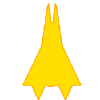
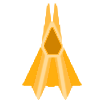
added Screen class to gui(for displayig images, maybe rename that one to Image or GUIImage???)

Changed region(s): [[0.24, 0.03, 0.81, 1.0]]

diff --git a/Shoot em Up/Shoot em Up/GUI/GUIElement.cs b/Shoot em Up/Shoot em Up/GUI/GUIElement.cs
@@ -23,6 +23,7 @@ namespace GUI
         private RectangleShape bottomLeftDest;
         private RectangleShape bottomCenterDest;
         private RectangleShape bottomRightDest;
+        protected RectangleShape image;
         protected String path;
 
 
@@ -49,16 +50,22 @@ namespace GUI
 
         public virtual void Draw(RenderTarget target, RenderStates states)
         {
-
-            target.Draw(this.topLeftDest, states);
-            target.Draw(this.topCenterDest, states);
-            target.Draw(this.topRightDest, states);
-            target.Draw(this.centerLeftDest, states);
-            target.Draw(this.centerCenterDest, states);
-            target.Draw(this.centerRightDest, states);
-            target.Draw(this.bottomLeftDest, states);
-            target.Draw(this.bottomCenterDest, states);
-            target.Draw(this.bottomRightDest, states);
+            if (this.topLeftDest != null)
+            {
+                target.Draw(this.topLeftDest, states);
+                target.Draw(this.topCenterDest, states);
+                target.Draw(this.topRightDest, states);
+                target.Draw(this.centerLeftDest, states);
+                target.Draw(this.centerCenterDest, states);
+                target.Draw(this.centerRightDest, states);
+                target.Draw(this.bottomLeftDest, states);
+                target.Draw(this.bottomCenterDest, states);
+                target.Draw(this.bottomRightDest, states);
+            }
+            else
+            {
+                target.Draw(this.image, states);
+            }
         }
 
         public bool Displayed { get; set; }

diff --git a/Shoot em Up/Shoot em Up/GUI/Screen.cs b/Shoot em Up/Shoot em Up/GUI/Screen.cs
@@ -1,0 +1,56 @@
+using SFML.Graphics;
+using SFML.System;
+using System;
+using System.Collections.Generic;
+using System.Linq;
+using System.Text;
+
+namespace GUI
+{
+    class Screen : GUIElement, IGraphic
+    {
+
+        private bool displayed;
+        private IGraphic parentView;
+        public Screen(uint x, uint y, String src) : base(x,y)
+        {
+            this.img = new Texture(src);
+            this.image = new RectangleShape(new Vector2f(this.img.Size.X, this.img.Size.Y));
+            this.image.Texture = this.img;
+            this.displayed = true;
+        }
+
+        new public IGraphic ParentView
+        {
+            get { return parentView; }
+            set { parentView = value; }
+        }
+
+        new public bool Displayed
+        {
+            get { return displayed; }
+            set { displayed = value; }
+        }
+
+        new public void Draw(RenderWindow window)
+        {
+            if (displayed)
+                window.Draw(this);
+        }
+
+        new public void Released(float X, float Y)
+        {
+
+        }
+
+        new public void Pressed(float X, float Y)
+        {
+
+        }
+
+        new public void OnHover(float X, float Y)
+        {
+
+        }
+    }
+}

diff --git a/Shoot em Up/Shoot em Up/Game/GUI/GUI.cs b/Shoot em Up/Shoot em Up/Game/GUI/GUI.cs
@@ -14,6 +14,7 @@ namespace Shoot_em_Up {
         Button restart;
         Button toMain;
         Menue menue;
+        Screen title;
         Game game;
         private List<IGraphic> welcome = new List<IGraphic>();
         private List<IGraphic> inGame = new List<IGraphic>();
@@ -28,6 +29,8 @@ namespace Shoot_em_Up {
             this.inGame.Add(menue);
 
             start = new Button(new Vector2f(150, 350), new Vector2f(200,50), "Start Game!", 24, StartGame);
+            title = new Screen(0,0,"../Content/title.png");
+            this.welcome.Add(title);
             this.welcome.Add(start);
 
             restart = new Button(new Vector2f(150, 350), new Vector2f(200, 50), "Play Again!", 24, StartGame);
